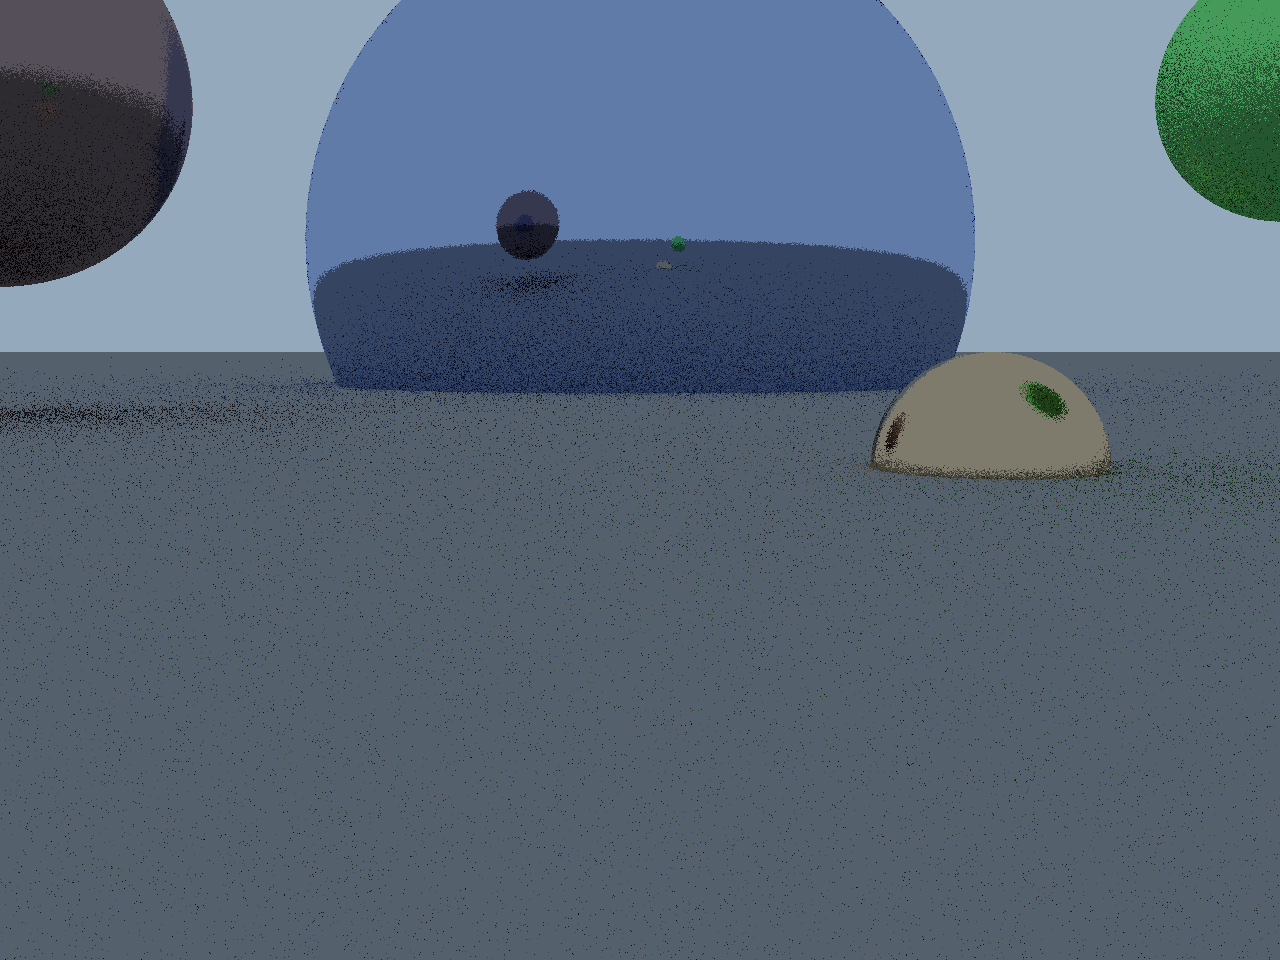
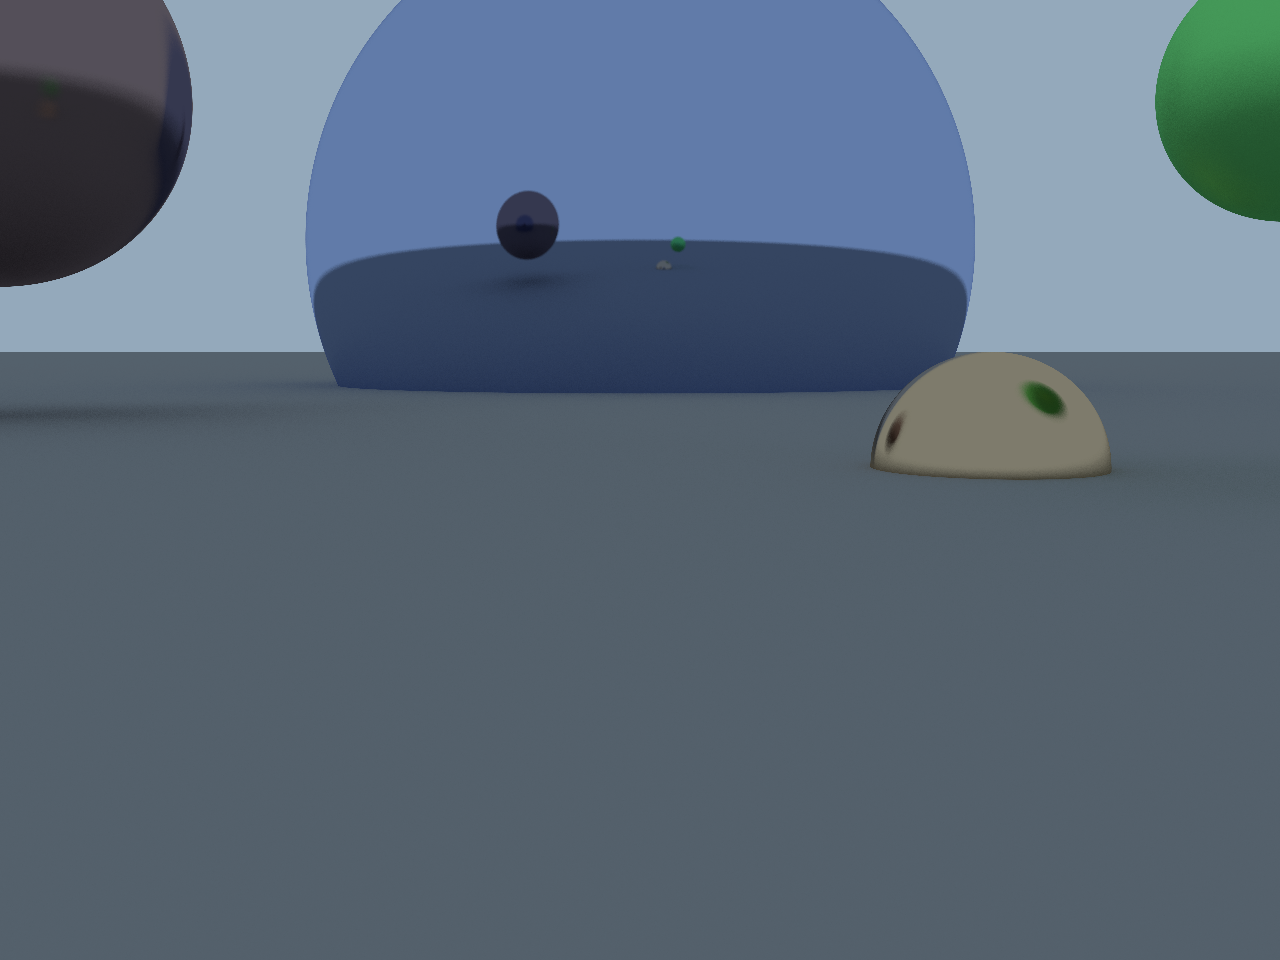
Better image

diff --git a/main.cpp b/main.cpp
@@ -264,7 +264,7 @@ int main(int argc, char const *argv[])
   v3 FilmCenter = CameraP - (FilmDist * CameraZ);
 
   // How many rays per pixel? 
-  uint32_t RaysPerPixels = 1; 
+  uint32_t RaysPerPixels = 128; 
   float Contrib = 1.0f / (float)RaysPerPixels;
 
   // Image generation loop
